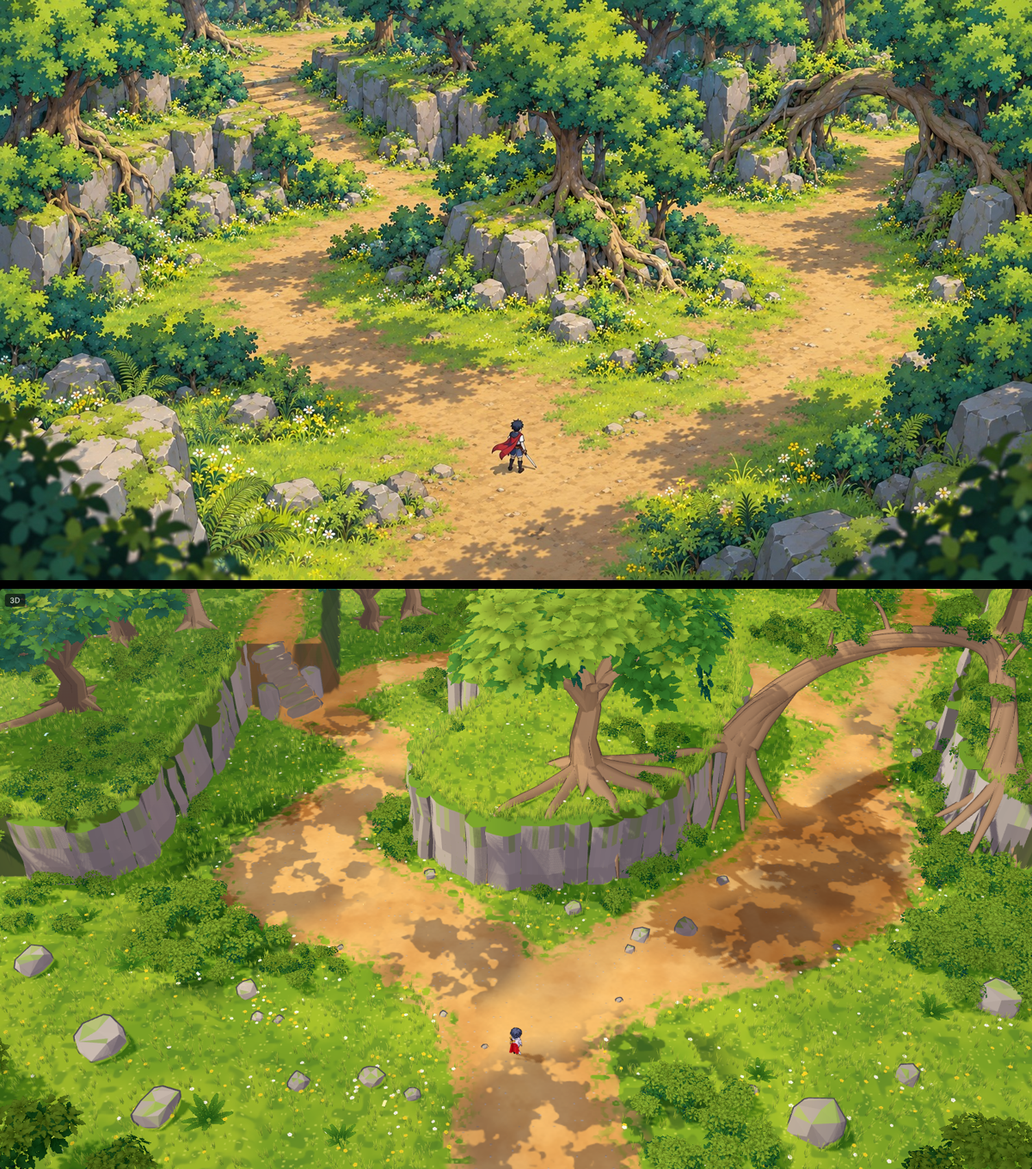
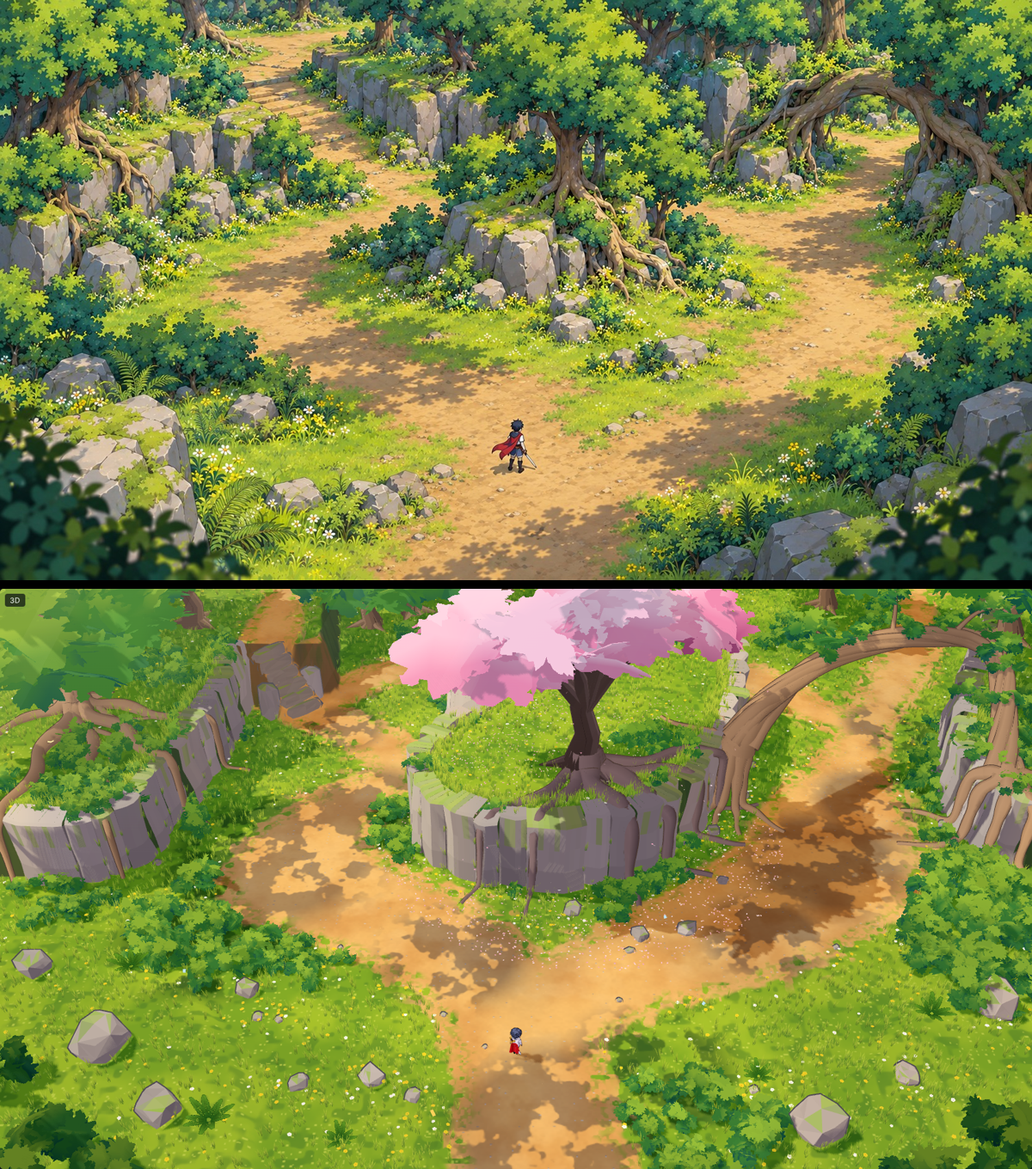
Forest scene: sakura island tree, game foliage back, stone-capped cliffs, ground-hugging roots
Claude-Session: https://claude.ai/code/session_01N6NyACoSM5MyJPcPLs4wAw

diff --git a/scenes/forest/scene.js b/scenes/forest/scene.js
@@ -222,7 +222,7 @@ function buildCliffs() {
     const vs = nn.dot(out) >= 0 ? [a, b, c, a, c, d] : [a, c, b, a, d, c];
     for (const v of vs) { pos.push(v.x, v.y, v.z); col.push(color.r, color.g, color.b); }
   };
-  const stone = STONE.map(h => new THREE.Color(h)), moss = MOSS.map(h => new THREE.Color(h)), lipC = new THREE.Color('#7fa43a');
+  const stone = STONE.map(h => new THREE.Color(h)), moss = MOSS.map(h => new THREE.Color(h));
   const F = [0, 0.32, 0.66, 1];   // the face's facet rows, as fractions of its height
   for (const T of TERRACES) {
     if (!T.ledge) continue;
@@ -251,7 +251,7 @@ function buildCliffs() {
       while (i0 < S.length - 1) {
         const w = rand() < 0.22 ? R(2.6, 4.2) : R(1.1, 2.2); let i1 = i0 + 1;
         while (i1 < S.length - 1 && S[i1].s - S[i0].s < w) i1++;
-        cols.push({ i0, i1, s0: S[i0].s, s1: S[i1].s, off: R(-0.1, 0.55), slope: R(-0.12, 0.12), ridge: R(0.15, 0.5), peak: R(0.3, 0.7), top: T.top + R(-0.4, 0.25), rows: F.map(() => R(-0.25, 0.25)), lean: R(-0.2, 0.35), c: pick(stone).clone().multiplyScalar(R(0.95, 1.05)), mid: (S[i0].s + S[i1].s) / 2 });
+        cols.push({ i0, i1, s0: S[i0].s, s1: S[i1].s, off: R(-0.1, 0.55), slope: R(-0.12, 0.12), ridge: R(0.15, 0.5), peak: R(0.3, 0.7), top: T.top + R(0.05, 0.45), cap: R(0.9, 1.6), moss: R(0, 1), rows: F.map(() => R(-0.25, 0.25)), lean: R(-0.2, 0.35), c: pick(stone).clone().multiplyScalar(R(0.95, 1.05)), mid: (S[i0].s + S[i1].s) / 2 });
         i0 = i1;
       }
       const vtx = (C, i, r) => {
@@ -270,10 +270,18 @@ function buildCliffs() {
             if (r === F.length - 2 && (i - C.i0) % 3 !== 0 && rand() < 0.5) shade.lerp(pick(moss), R(0.35, 0.6));   // moss creeping down from the top
             quad(vtx(C, i, r), vtx(C, i + 1, r), vtx(C, i + 1, r + 1), vtx(C, i, r + 1), out, shade);
           }
-          // the lip: grass rolling over the top edge
+          // the top of the rock: a rounded edge, then a flat stone cap running back into the grass,
+          // mossy in patches, and an inner face down to the ground behind it
           const t0 = vtx(C, i, F.length - 1), t1 = vtx(C, i + 1, F.length - 1);
-          const l0 = new V3(S[i].x - S[i].nx * 0.5, T.top + 0.08, S[i].z - S[i].nz * 0.5), l1 = new V3(S[i + 1].x - S[i + 1].nx * 0.5, T.top + 0.08, S[i + 1].z - S[i + 1].nz * 0.5);
-          quad(t0, t1, l1, l0, new V3(0, 1, 0), lipC);
+          const edge = (k, inset, up) => { const q = S[k], o = vtx(C, k, F.length - 1); return new V3(o.x - q.nx * inset, o.y + up, o.z - q.nz * inset); };
+          const e0 = edge(i, 0.22, 0.14), e1 = edge(i + 1, 0.22, 0.14);
+          const back = (k, dy) => { const q = S[k]; return new V3(q.x - q.nx * C.cap, C.top + 0.14 + dy, q.z - q.nz * C.cap); };
+          const b0 = back(i, R(-0.04, 0.04)), b1 = back(i + 1, R(-0.04, 0.04));
+          const mossy = noise2(S[i].x * 0.9 + 4, S[i].z * 0.9) * 0.5 + 0.5 < 0.35 + C.moss * 0.4;
+          shade.copy(C.c).multiplyScalar(1.04); if (mossy) shade.lerp(pick(moss), R(0.5, 0.75));
+          quad(t0, t1, e1, e0, out, shade.clone().multiplyScalar(0.97));
+          quad(e0, e1, b1, b0, new V3(0, 1, 0), shade);
+          quad(b0, b1, new V3(b1.x, T.top - 0.3, b1.z), new V3(b0.x, T.top - 0.3, b0.z), new V3(-out.x, 0, -out.z), shade.copy(C.c).multiplyScalar(0.8));
         }
         // the crack to the next column: a narrow face joining their two edges, in shadow
         const D = cols[ci + 1];
@@ -285,10 +293,12 @@ function buildCliffs() {
         const q = S[Math.round((C.i0 + C.i1) / 2)];
         for (let g = C.i0; g <= C.i1; g++) {
           const a = S[g];
-          for (let k = 0; k < 3; k++) { const b = R(-0.05, 0.9); grassItems.push({ x: a.x - a.nx * b + R(-0.3, 0.3), y: T.top + 0.02, z: a.z - a.nz * b + R(-0.3, 0.3), s: R(1.0, 1.5), ry: R(0, 6.28), k: R(0.9, 1.1) }); }
+          // grass behind the cap, a few tufts on it
+          for (let k = 0; k < 3; k++) { const b = C.cap + R(0.05, 0.9); grassItems.push({ x: a.x - a.nx * b + R(-0.3, 0.3), y: T.top + 0.02, z: a.z - a.nz * b + R(-0.3, 0.3), s: R(1.0, 1.5), ry: R(0, 6.28), k: R(0.9, 1.1) }); }
+          if (rand() < 0.18) { const b = R(0.4, C.cap - 0.1); grassItems.push({ x: a.x - a.nx * b, y: C.top + 0.12, z: a.z - a.nz * b, s: R(0.7, 1.0), ry: R(0, 6.28), k: 1 }); }
         }
         if (D) for (let k = 0; k < 2; k++) { const v = vtx(C, C.i1, 1 + k); grassItems.push({ x: v.x + S[C.i1].nx * 0.1, y: v.y - 0.2, z: v.z + S[C.i1].nz * 0.1, s: R(0.8, 1.2), ry: R(0, 6.28), k: 0.9 }); }
-        if (rand() < 0.45) addBush(q.x - q.nx * R(0.6, 1.4), T.top - 0.25, q.z - q.nz * R(0.6, 1.4), R(0.45, 0.8), { sy: 0.55, tint: R(-0.4, 0.3) });
+        if (rand() < 0.4) addBush(q.x - q.nx * (C.cap + R(0.3, 1.0)), T.top - 0.25, q.z - q.nz * R(0.6, 1.4), R(0.45, 0.8), { sy: 0.55, tint: R(-0.4, 0.3) });
         if (rand() < 0.2) addBush(q.x + q.nx * R(1.0, 1.8), q.base + 0.3, q.z + q.nz * R(1.0, 1.8), R(0.5, 0.85), { sy: 0.75, tint: -0.6 });
         if (rand() < 0.12) { const r = R(0.35, 0.75), x = q.x + q.nx * R(1.2, 2.4), z = q.z + q.nz * R(1.2, 2.4); addStone(x, height(x, z) - 0.06, z, r, r * R(0.6, 0.85), r, { chamfer: 0.12, jitter: 0.14, extra: 7, ry: R(-0.6, 0.6), moss: 0.3 }); }
       });
@@ -351,21 +361,35 @@ function tube(points, r0, r1, { sides = 8, seg = 3, ink = 0.04, rf = null } = {}
   };
   woodParts.push(build(0)); woodInk.push(build(ink));
 }
-// roots from a tree on a raised top, over the lip of its ledge and down onto the low ground
+// a root that lies along the ground from (x, z): it rises out of the trunk's flare, then follows the
+// ground half sunk into it, wandering a little; at a cliff it bends over the lip and runs down the
+// rock face to the foot before carrying on. r0 is its radius at the trunk.
+function groundRoot(x, z, y0, ux, uz, len, r0, wig = 0.45) {
+  const nx = -uz, nz = ux, ph = R(0, 6.28), pts = [new V3(x, y0, z)];
+  let d = 0.5, prev = height(x, z), ox = 0, oz = 0;
+  while (d <= len) {
+    const w = Math.sin(d * 0.85 + ph) * wig * Math.min(1, d / 1.5);
+    const qx = x + ux * d + nx * w + ox, qz = z + uz * d + nz * w + oz, h = height(qx, qz), r = r0 * (1 - 0.8 * d / len);
+    if (prev - h > 0.8) {
+      // over the lip and down the face (the face stands up to about a metre out from its outline)
+      const lx = qx - ux * 0.5, lz = qz - uz * 0.5, foot = height(qx + ux * 2.2, qz + uz * 2.2);
+      pts.push(new V3(lx + ux * 0.3, prev + r * 0.5, lz + uz * 0.3), new V3(lx + ux * 1.15, prev - 0.35, lz + uz * 1.15),
+        new V3(lx + ux * 1.35, (prev + foot) / 2, lz + uz * 1.35), new V3(lx + ux * 1.6, foot + r * 0.8, lz + uz * 1.6));
+      ox += ux * 1.6; oz += uz * 1.6; prev = foot; d += 1.1; continue;
+    }
+    pts.push(new V3(qx, h + r * 0.35 + (d < 1.2 ? (1.2 - d) * 0.4 : 0), qz));
+    prev = h; d += 0.5;
+  }
+  if (pts.length < 3) return;
+  tube(pts, 0, 0, { sides: 7, seg: 4, rf: t => r0 * (1 - 0.82 * t) * (1 + 0.12 * Math.sin(t * 23 + ph)) + 0.03 });
+}
+// roots from a tree toward points on the low ground; they cross its top and drape its cliff
 function drapeRoots(tx, tz, top, targets, s = 1) {
   for (const [u, v, rr = 1] of targets) {
     const [fx, fz] = P(u, v, 0), dx = fx - tx, dz = fz - tz, d = Math.hypot(dx, dz), ux = dx / d, uz = dz / d;
-    let e = 0.6; while (e < d && height(tx + ux * e, tz + uz * e) > top - 0.35) e += 0.2;
-    if (e > 4.5 * s) continue;   // the ledge is too far: no root crawls across the whole terrace
-    const lip = e - 0.25, sway = R(-0.4, 0.4);
-    const pts = [
-      new V3(tx + ux * 0.2, top + 0.35, tz + uz * 0.2),
-      new V3(tx + ux * lip * 0.5 - uz * sway * 0.4, top + 0.2, tz + uz * lip * 0.5 + ux * sway * 0.4),
-      new V3(tx + ux * lip - uz * sway, top + 0.08, tz + uz * lip + ux * sway),
-      new V3(tx + ux * (lip + 0.55) - uz * sway, top * 0.55, tz + uz * (lip + 0.55) + ux * sway),
-      new V3(tx + ux * (lip + 1.2) - uz * sway * 0.6, height(tx + ux * (lip + 1.2), tz + uz * (lip + 1.2)) + 0.05, tz + uz * (lip + 1.2) + ux * sway * 0.6),
-    ];
-    tube(pts, 0.3 * s * rr, 0.05, { sides: 7 });
+    groundRoot(tx + ux * 0.25 * s, tz + uz * 0.25 * s, top + 0.7 * s, ux, uz, Math.min(d + 1.5, 9 * s), 0.3 * s * rr);
+    // a thinner root beside it
+    if (rr > 0.85) { const a = R(-0.5, 0.5), c = Math.cos(a), sn = Math.sin(a); groundRoot(tx + ux * 0.3 * s, tz + uz * 0.3 * s, top + 0.4 * s, ux * c - uz * sn, ux * sn + uz * c, Math.min(d * 0.6, 5 * s), 0.14 * s, 0.7); }
   }
 }
 
@@ -399,76 +423,37 @@ function fernGeometry() {
   g.setAttribute('normal', new THREE.Float32BufferAttribute(nn, 3)); return g;
 }
 
-// ---------- crowns and shrubs as the concept paints them: many small leaf puffs ----------
-// Each puff is a cluster of cards carrying small lobed leaves; a puff is lit on its own (bright
-// upper-left, blue-green underneath), so a crown reads as a heap of leaf clumps instead of one
-// smooth blob.
-const clumpMaps = new Map();
-function clumpTexture(shrub = false) {
-  if (clumpMaps.has(shrub)) return clumpMaps.get(shrub);
-  const cv = document.createElement('canvas'); cv.width = cv.height = 512;
-  const c = cv.getContext('2d'), rng = mkRng(shrub ? 77 : 41);
-  for (let tile = 0; tile < 4; tile++) {
-    const ox = (tile % 2) * 256 + 128, oy = Math.floor(tile / 2) * 256 + 128;
-    // a rosette of lobed leaves pointing out from the middle, the biggest at the back
-    const n = shrub ? 6 + (tile % 2) : 9 + tile;
-    for (let i = 0; i < n; i++) {
-      const a = i / n * Math.PI * 2 + rng.range(-0.25, 0.25), len = shrub ? rng.range(78, 104) : rng.range(52, 86), wid = len * rng.range(0.42, 0.55);
-      c.save(); c.translate(ox + Math.cos(a) * rng.range(14, 30), oy + Math.sin(a) * rng.range(14, 30)); c.rotate(a);
-      const g = c.createLinearGradient(0, 0, len, 0); g.addColorStop(0, '#b8b8b8'); g.addColorStop(0.55, '#f2f2f2'); g.addColorStop(1, '#ffffff');
-      c.fillStyle = g; c.beginPath(); c.moveTo(0, 0);
-      // three lobes a side with small notches between, a pointed tip
-      for (const side of [-1, 1]) {
-        const pts = [];
-        for (let k = 1; k <= 3; k++) { const t = k / 4; pts.push([len * (t - 0.06), side * wid * 0.5 * Math.sin(t * Math.PI) * 1.15], [len * (t + 0.04), side * wid * 0.5 * Math.sin(t * Math.PI) * 0.72]); }
-        if (side < 0) { for (const [x, y] of pts) c.lineTo(x, y); c.lineTo(len, 0); }
-        else for (const [x, y] of pts.reverse()) c.lineTo(x, y);
-      }
-      c.closePath(); c.fill(); c.restore();
-    }
+// ---------- cherry petals: fallen on the island and the trails below it, and drifting down ----------
+const PETALS = { fall: null, n: 0, data: null, m: new THREE.Matrix4(), q: new THREE.Quaternion(), e: new THREE.Euler(), p: new V3(), sc: new V3(1, 1, 1) };
+function buildPetals(trees) {
+  const root = new THREE.Group();
+  if (!trees.length) return root;
+  const geo = new THREE.CircleGeometry(0.075, 5); geo.scale(1, 0.62, 1);
+  const mat = new THREE.MeshBasicMaterial({ color: '#ffffff', side: THREE.DoubleSide });
+  const t = trees[0], R0 = 3.4 * t.s, ground = [];
+  for (let i = 0; i < 2600; i++) {
+    const a = R(0, 6.28), r = R0 * Math.sqrt(rand()) * 1.25, x = t.x + Math.cos(a) * r, z = t.z + Math.sin(a) * r * 0.9 + R0 * 0.15;
+    ground.push({ x, y: height(x, z) + 0.03, z, ry: R(0, 6.28), c: pick(SAKURA.petal) });
   }
-  const t = new THREE.CanvasTexture(cv); t.colorSpace = THREE.SRGBColorSpace; t.anisotropy = 4;
-  clumpMaps.set(shrub, t); return t;
+  const g = new THREE.InstancedMesh(geo, mat, ground.length), m = new THREE.Matrix4(), q = new THREE.Quaternion(), c = new THREE.Color();
+  ground.forEach((p, i) => { q.setFromEuler(new THREE.Euler(-Math.PI / 2 + R(-0.3, 0.3), 0, p.ry)); m.compose(new V3(p.x, p.y, p.z), q, new V3(1, 1, 1)); g.setMatrixAt(i, m); g.setColorAt(i, c.set(p.c)); });
+  root.add(g);
+  // petals in the air: each falls from the crown with a flutter and starts again at the top
+  const n = 90, fall = new THREE.InstancedMesh(geo, mat, n), data = [];
+  for (let i = 0; i < n; i++) { data.push({ x: t.x + R(-R0, R0), z: t.z + R(-R0, R0) * 0.8, top: t.y + 3.2 * t.s * (t.h || 1), ph: R(0, 1), sp: R(0.06, 0.11), w: R(0.6, 1.4) }); fall.setColorAt(i, c.set(pick(SAKURA.petal))); }
+  Object.assign(PETALS, { fall, n, data }); root.add(fall);
+  return root;
 }
-function clumpFoliage(seed = 3, shrub = false) {
-  const rng = mkRng(seed * 13 + (shrub ? 5 : 1)), p = [], n = [], c = [], uv = [];
-  const [dark, mid, light] = (shrub ? FOL.shrub : FOL.leaf).map(h => new THREE.Color(h));
-  const sunDir = new V3(-0.55, 0.8, 0.25).normalize();
-  // the crown's envelope (unit space, as the game's crowns): a dome for trees, a mound for shrubs
-  const E = shrub ? { x: 0.62, y: 0.45, z: 0.48, cy: 0.42, puffs: 8, r: [0.24, 0.34], cards: 8, lift: 0.16 } : { x: 0.9, y: 0.55, z: 0.75, cy: 0.3, puffs: 28, r: [0.24, 0.36], cards: 13, lift: -0.05 };
-  const puffs = [];
-  for (let i = 0; i < E.puffs; i++) {
-    // spread over the envelope's surface, a few inside; none on the flat underside
-    const u = rng.range(0, Math.PI * 2), v = Math.acos(rng.range(-0.35, 1)), k = i < 3 ? 0.45 : rng.range(0.75, 1.0);
-    puffs.push({ c: new V3(Math.sin(v) * Math.cos(u) * E.x * k, E.cy + Math.cos(v) * E.y * k, Math.sin(v) * Math.sin(u) * E.z * k), r: rng.range(...E.r) });
+function updatePetals(time) {
+  if (!PETALS.fall) return;
+  const P0 = PETALS;
+  for (let i = 0; i < P0.n; i++) {
+    const d = P0.data[i], k = (time * d.sp + d.ph) % 1, ground = height(d.x, d.z);
+    P0.p.set(d.x + Math.sin(time * d.w + i) * 0.8 + k * 2.2, d.top + (ground - d.top) * k, d.z + Math.cos(time * d.w * 0.7 + i) * 0.6);
+    P0.q.setFromEuler(P0.e.set(time * d.w * 2 + i, time * d.w + i * 0.3, 0));
+    P0.m.compose(P0.p, P0.q, P0.sc); P0.fall.setMatrixAt(i, P0.m);
   }
-  const col = new THREE.Color(), tmp = new V3();
-  const card = (centre, normal, size, roll, tile, tone) => {
-    const across = new V3().crossVectors(new V3(0, 1, 0), normal); if (across.lengthSq() < 1e-3) across.set(1, 0, 0); else across.normalize();
-    const along = new V3().crossVectors(normal, across).normalize();
-    const x = across.clone().multiplyScalar(Math.cos(roll)).addScaledVector(along, Math.sin(roll)), y = along.clone().multiplyScalar(Math.cos(roll)).addScaledVector(across, -Math.sin(roll));
-    for (const [a, b] of [[-1, -1], [1, -1], [1, 1], [-1, -1], [1, 1], [-1, 1]]) {
-      const v = centre.clone().addScaledVector(x, a * size * 0.5).addScaledVector(y, b * size * 0.5).addScaledVector(normal, size * 0.12 * (1 - Math.abs(a * b)));
-      p.push(v.x, v.y, v.z); n.push(normal.x, normal.y, normal.z); c.push(tone.r, tone.g, tone.b);
-      uv.push(((tile % 2) + (a + 1) * 0.5) * 0.5, (Math.floor(tile / 2) + (b + 1) * 0.5) * 0.5);
-    }
-  };
-  for (const P0 of puffs) {
-    const ph = THREE.MathUtils.clamp((P0.c.y - E.cy + E.y) / (2 * E.y), 0, 1), jit = rng.range(-0.06, 0.06);
-    for (let i = 0; i < E.cards; i++) {
-      const a = i * 2.39996 + rng.range(-0.3, 0.3), up = rng.range(-0.25, 1);
-      const nrm = new V3(Math.cos(a) * Math.sqrt(1 - up * up), up, Math.sin(a) * Math.sqrt(1 - up * up)).normalize();
-      const centre = P0.c.clone().addScaledVector(nrm, P0.r * rng.range(0.55, 0.95));
-      // lit by the puff's own roundness and its height in the crown: three hard steps
-      const lit = nrm.dot(sunDir) * 0.5 + ph * 0.45 + jit + 0.12 + E.lift;
-      if (lit > 0.62) col.copy(light); else if (lit > 0.3) col.copy(mid); else col.copy(dark);
-      col.multiplyScalar(rng.range(0.94, 1.05));
-      card(centre, tmp.copy(nrm).lerp(new V3(0, 1, 0), 0.35).normalize(), P0.r * rng.range(1.45, 1.9), rng.range(-3, 3), (i + puffs.indexOf(P0)) % 4, col);
-    }
-  }
-  const g = new THREE.BufferGeometry();
-  for (const [key, array, size] of [['position', p, 3], ['normal', n, 3], ['color', c, 3], ['uv', uv, 2]]) g.setAttribute(key, new THREE.Float32BufferAttribute(array, size));
-  g.computeBoundingSphere(); return g;
+  P0.fall.instanceMatrix.needsUpdate = true;
 }
 
 // ---------- ambience: motes in the light, butterflies over the flowers ----------
@@ -511,6 +496,8 @@ function updateAmbience(t) {
 // this scene's colours, measured from the concept: olive-yellow light, deep blue-green shade
 FOL.leaf = ['#2f6a55', '#56913f', '#a6c247']; FOL.shrub = ['#2c6150', '#468040', '#94b545'];
 FOL.trunk = { light: '#c49c76', mid: '#9d7b5d', shadow: '#6f5749', line: '#4a372e' };
+// the cherry in the middle: pale blossom with rose shade, dark grey-brown bark
+const SAKURA = { bloom: ['#b35583', '#ec92b4', '#ffd0df'], trunk: { light: '#9a7f78', mid: '#75605c', shadow: '#54443f', line: '#3d302d' }, petal: ['#ffc4d6', '#f7a9c2', '#ffe4ec'] };
 STONE.splice(0, STONE.length, '#cdb9a6', '#c2b3a3', '#d2c2b0', '#b9ab9c', '#c8b8a6', '#bcae9f');
 MOSS.splice(0, MOSS.length, '#a7c63f', '#93b23a', '#b5c94c');
 // ---------- assemble ----------
@@ -535,11 +522,12 @@ function build() {
     const top = height(x, z) > 1 ? height(x, z) : 0;
     if (top > 1) [x, z] = P(u, v, top);
     broadleaf(x, z, s, seed); treeItems[treeItems.length - 1].h = h;
+    if (u === 0.565) treeItems[treeItems.length - 1].sakura = true;   // the island tree is a cherry in bloom
     COLLIDERS.push({ x, z, r: 0.6 * s }); trunkAt.push([x, z, 1.4 * s]);
   }
   // roots draped over the ledges: the left tree and the big tree on the island
   { const [x, z] = P(0.075, 0.2, H(3.3)); drapeRoots(x, z, H(3.3), [[0.03, 0.47, 1.1], [0.12, 0.47, 0.9], [0.17, 0.38], [0.205, 0.31, 0.8], [0.0, 0.35, 0.8]], 1.3 * TS); }
-  { const [x, z] = P(0.565, 0.31, H(3.7)); drapeRoots(x, z, H(3.7), [[0.6, 0.5, 1.2], [0.645, 0.47, 1.1], [0.675, 0.43], [0.52, 0.52, 0.8], [0.48, 0.5, 0.7], [0.69, 0.38, 0.8]], 1.4 * TS); }
+  { const [x, z] = P(0.565, 0.31, H(3.7)), bark = FOL.trunk; FOL.trunk = SAKURA.trunk; drapeRoots(x, z, H(3.7), [[0.6, 0.5, 1.2], [0.645, 0.47, 1.1], [0.675, 0.43], [0.52, 0.52, 0.8], [0.48, 0.5, 0.7], [0.69, 0.38, 0.8]], 1.4 * TS); FOL.trunk = bark; }   // the cherry's roots in its own bark
   // the arching tree: a thick trunk rising from the right terrace, leaning over the trail and
   // rooting again on the island, with a crown above the arch
   {
@@ -559,15 +547,12 @@ function build() {
       }
       tube(pts, 0, 0, { sides: 7, rf: t => rb * (0.75 + 0.5 * Math.pow(Math.abs(2 * t - 1), 2)) });
     }
-    // buttress roots at each foot: thick, bowing out and down, thinning into the ground
+    // buttress roots at each foot, spreading over the ground and down the cliffs
     for (const end of [0, 1]) {
       const foot = core.getPointAt(end), inner = core.getPointAt(end ? 0.9 : 0.1), back = foot.clone().sub(inner).setY(0).normalize();
       for (let k = 0; k < 6; k++) {
-        const dir = back.clone().applyAxisAngle(new V3(0, 1, 0), -1.9 + k * 0.76 + R(-0.2, 0.2)), reach = R(1.6, 2.8) * a;
-        const s0 = foot.clone().addScaledVector(dir, coreR(end) * 0.6); s0.y += 0.15 * a;
-        const g = foot.clone().addScaledVector(dir, reach); g.y = height(g.x, g.z) - 0.1;
-        const m = foot.clone().addScaledVector(dir, reach * 0.4); m.y = foot.y * 0.6 + g.y * 0.4 + 0.25 * a;
-        tube([inner.clone().lerp(foot, 0.6), s0, m, g], 0, 0, { sides: 7, rf: t => a * (0.34 - 0.27 * t) });
+        const dir = back.clone().applyAxisAngle(new V3(0, 1, 0), -1.9 + k * 0.76 + R(-0.2, 0.2));
+        groundRoot(foot.x + dir.x * coreR(end) * 0.5, foot.z + dir.z * coreR(end) * 0.5, foot.y + 0.5 * a, dir.x, dir.z, R(2.2, 4.0) * a, 0.3 * a);
       }
     }
     // a few thin shoots from the crown of the arch with leaves at their tips, and leaves along the top
@@ -646,22 +631,37 @@ function build() {
     return mesh;
   };
   const sway = (amp, base) => ({ sway: [amp, base] });
-  const leafMat = shrub => paint({ vertexColors: true, map: clumpTexture(shrub), alphaTest: 0.45, side: THREE.DoubleSide, shade: [0.6, 0.7, 0.72], mid: [0.6, 0.7, 0.72], band: [-5, -5], ...sway(shrub ? 0.02 : 0.016, shrub ? 0 : 1.2) });
-  const leafDepth = shrub => new THREE.MeshDepthMaterial({ depthPacking: THREE.RGBADepthPacking, map: clumpTexture(shrub), alphaTest: 0.45 });
-  const trunkGeo = animeTrunk();
-  const trunks = placeAll(new THREE.InstancedMesh(trunkGeo, paint({ vertexColors: true, side: THREE.DoubleSide, shade: [0.62, 0.62, 0.7], mid: [0.62, 0.62, 0.7], band: [-5, -5] }), treeItems.length), treeItems, it => new V3(it.s, it.s * (it.h || 1), it.s));
-  trunks.castShadow = trunks.receiveShadow = true; scene.add(trunks);
-  scene.add(placeAll(new THREE.InstancedMesh(trunkGeo, outlineMat(FOL.trunk.line), treeItems.length), treeItems, it => new V3(it.s * 1.06, it.s * (it.h || 1) * 1.01, it.s * 1.06)));
-  [3, 5, 9].forEach((seed, v) => {
-    const items = [...treeItems.filter(t => t.v === v).map(t => ({ ...t, y: t.y + 3.5 * t.s * (t.h || 1) })), ...crownOnly.filter(c => c.v === v)];
+  const leafMat = shrub => paint({ vertexColors: true, map: branchletTexture(shrub), alphaTest: 0.45, side: THREE.DoubleSide, shade: [0.6, 0.7, 0.72], mid: [0.6, 0.7, 0.72], band: [-5, -5], ...sway(shrub ? 0.02 : 0.016, shrub ? 0 : 1.2) });
+  const leafDepth = shrub => new THREE.MeshDepthMaterial({ depthPacking: THREE.RGBADepthPacking, map: branchletTexture(shrub), alphaTest: 0.45 });
+  const trunkMat = paint({ vertexColors: true, side: THREE.DoubleSide, shade: [0.62, 0.62, 0.7], mid: [0.62, 0.62, 0.7], band: [-5, -5] });
+  const addTrunks = (geo, items, line) => {
     if (!items.length) return;
-    const crown = placeAll(new THREE.InstancedMesh(clumpFoliage(seed, false), leafMat(false), items.length), items, it => new V3(3.0 * it.s, 2.0 * it.s, 2.7 * it.s));
+    const t = placeAll(new THREE.InstancedMesh(geo, trunkMat, items.length), items, it => new V3(it.s, it.s * (it.h || 1), it.s));
+    t.castShadow = t.receiveShadow = true; scene.add(t);
+    scene.add(placeAll(new THREE.InstancedMesh(geo, outlineMat(line), items.length), items, it => new V3(it.s * 1.06, it.s * (it.h || 1) * 1.01, it.s * 1.06)));
+  };
+  const green = treeItems.filter(t => !t.sakura), sakura = treeItems.filter(t => t.sakura);
+  addTrunks(animeTrunk(), green, FOL.trunk.line);
+  // the cherry: the game's own trunk and crown, in cherry bark and blossom colours
+  const keep = { leaf: FOL.leaf, trunk: FOL.trunk };
+  FOL.trunk = SAKURA.trunk; addTrunks(animeTrunk(), sakura, SAKURA.trunk.line);
+  FOL.leaf = SAKURA.bloom;
+  const bloom = animeFoliage(9, false);
+  Object.assign(FOL, keep);
+  if (sakura.length) {
+    const c = placeAll(new THREE.InstancedMesh(bloom, leafMat(false), sakura.length), sakura.map(t => ({ ...t, y: t.y + 3.5 * t.s * (t.h || 1) })), it => new V3(3.0 * it.s, 2.0 * it.s, 2.7 * it.s));
+    c.customDepthMaterial = leafDepth(false); c.castShadow = c.receiveShadow = true; scene.add(c);
+  }
+  [3, 5, 9].forEach((seed, v) => {
+    const items = [...green.filter(t => t.v === v).map(t => ({ ...t, y: t.y + 3.5 * t.s * (t.h || 1) })), ...crownOnly.filter(c => c.v === v)];
+    if (!items.length) return;
+    const crown = placeAll(new THREE.InstancedMesh(animeFoliage(seed, false), leafMat(false), items.length), items, it => new V3(3.0 * it.s, 2.0 * it.s, 2.7 * it.s));
     crown.customDepthMaterial = leafDepth(false); crown.castShadow = crown.receiveShadow = true; scene.add(crown);
   });
   [11, 13, 19].forEach((seed, v) => {
     const items = shrubItems.filter(t => t.v === v);
     if (!items.length) return;
-    const mesh = placeAll(new THREE.InstancedMesh(clumpFoliage(seed, true), leafMat(true), items.length), items, it => new V3(it.sx, it.sy, it.sz));
+    const mesh = placeAll(new THREE.InstancedMesh(animeFoliage(seed, true), leafMat(true), items.length), items, it => new V3(it.sx, it.sy, it.sz));
     mesh.customDepthMaterial = leafDepth(true); mesh.castShadow = mesh.receiveShadow = true; scene.add(mesh);
   });
   const grass = placeAll(new THREE.InstancedMesh(meadowGrass(), paint({ vertexColors: true, side: THREE.DoubleSide, shade: [0.6, 0.72, 0.68], mid: [0.6, 0.72, 0.68], band: [-5, -5], ...sway(0.15, 0) }), grassItems.length), grassItems, it => new V3(it.s, it.s, it.s));
@@ -673,6 +673,7 @@ function build() {
   scene.add(buildHero());
   loadHeroModel().catch(e => console.error('hero model', e));
   scene.add(buildAmbience());
+  scene.add(buildPetals(sakura));
   setStatus();
 }
 
@@ -730,6 +731,7 @@ function frame() {
   timeU.value = reduce ? 0 : t;
   updateHero(dt, t);
   updateAmbience(t);
+  updatePetals(timeU.value);
   placeCamera();
   renderer.render(scene, camera);
   requestAnimationFrame(frame);

diff --git a/scenes/forest/assemble.py b/scenes/forest/assemble.py
@@ -48,6 +48,8 @@ renderer = re.sub(r"const CAM = \{[^}]*\};", f"const CAM = {{ target: new V3(0, 
 renderer = renderer.replace("// fitted so the shoreline, the track mouth, the waypoint and the wreck land where the reference has them", "// the concept's view: 40 degrees down, close enough that the hero is about 85 px tall in the 941 px frame")
 renderer = renderer.replace("sun.position.copy(SUN).multiplyScalar(90);\nscene.add(sun, sun.target);", f"sun.target.position.set(0, 0, -{f(9)}); sun.position.copy(SUN).multiplyScalar(90).add(sun.target.position);\nscene.add(sun, sun.target);")
 renderer = renderer.replace("Object.assign(sun.shadow.camera, { left: -46, right: 46, top: 40, bottom: -40, near: 10, far: 220 });", f"Object.assign(sun.shadow.camera, {{ left: -{f(30)}, right: {f(30)}, top: {f(32)}, bottom: -{f(32)}, near: 10, far: {f(145)} }});")
+# the shadow box grows with K, so its texels do too: push the bias with it (no acne stripes)
+renderer = renderer.replace("sun.shadow.normalBias = 0.04;", f"sun.shadow.normalBias = {0.04 * K:g};")
 assert f'dist: {f(30)}' in renderer and 'add(sun.target.position)' in renderer and f'left: -{f(30)}' in renderer
 glsl = block('// ---------- shared GLSL', '// ---------- ground:')
 under = re.search(r"\n  // under the sea:.*?\n  \}\n", glsl, re.S)

diff --git a/scenes/README.md b/scenes/README.md
@@ -48,6 +48,17 @@ Done:
     face along them, split by vertical cracks into columns; each column is two planes meeting
     at a ridge. A grass lip rolls over the top, with grass on the lip and in the cracks;
   - cliffs are 1.45x taller (`H()`).
+- Owner feedback round 6 ("the cliff tops have no rock in them"; "the roots are still not
+  good"; "why did you change the leaf style again — it must go into the game"; "make the middle
+  tree a sakura"):
+  - foliage is back to the game's own `animeFoliage` (keep it; do not invent a new leaf style);
+  - each cliff column has a rounded edge and a flat stone cap, mossy in patches, with the grass
+    behind it;
+  - roots use `groundRoot`: they lie along the ground half sunk, and at a cliff they bend over
+    the lip and run down the face;
+  - the island tree is a cherry: the game's trunk and crown in `SAKURA` colours, with petals
+    on the ground and falling;
+  - shadow normal bias scales with K (removes acne stripes).
 1. Wait for the owner's feedback on the forest page (artifact HqTbjpLK4p91KHAw3yiJWd).
 2. Known gaps: canopy band at the top thinner than the concept, crowns a little lime, terrace tops
    sparser than the concept, a hard dark shadow patch by the stairs.
@@ -55,7 +66,8 @@ Done:
    from the forest; `ruins/scene.js` is not written yet. The layout notes (plaza with a stone
    ring, arch, pillars, a retaining wall with a paved ramp) are in the session handoff.
 
-Owner preferences learnt so far: judge composition and layout first, never just tone; round grey
+Owner preferences learnt so far: everything must be portable into the game (reuse the game's
+foliage and models, only recolour); judge composition and layout first, never just tone; round grey
 stones; cliffs are rock faces with grass growing on them, never stones set in a row; more room to walk; big trees; check against the concept side by side before showing.
 The in-game restyle (palette, water, ledges, waypoint ruin, ambience) is on PR #137; the owner did
 not ask for it, it is not merged and its CI is red.
